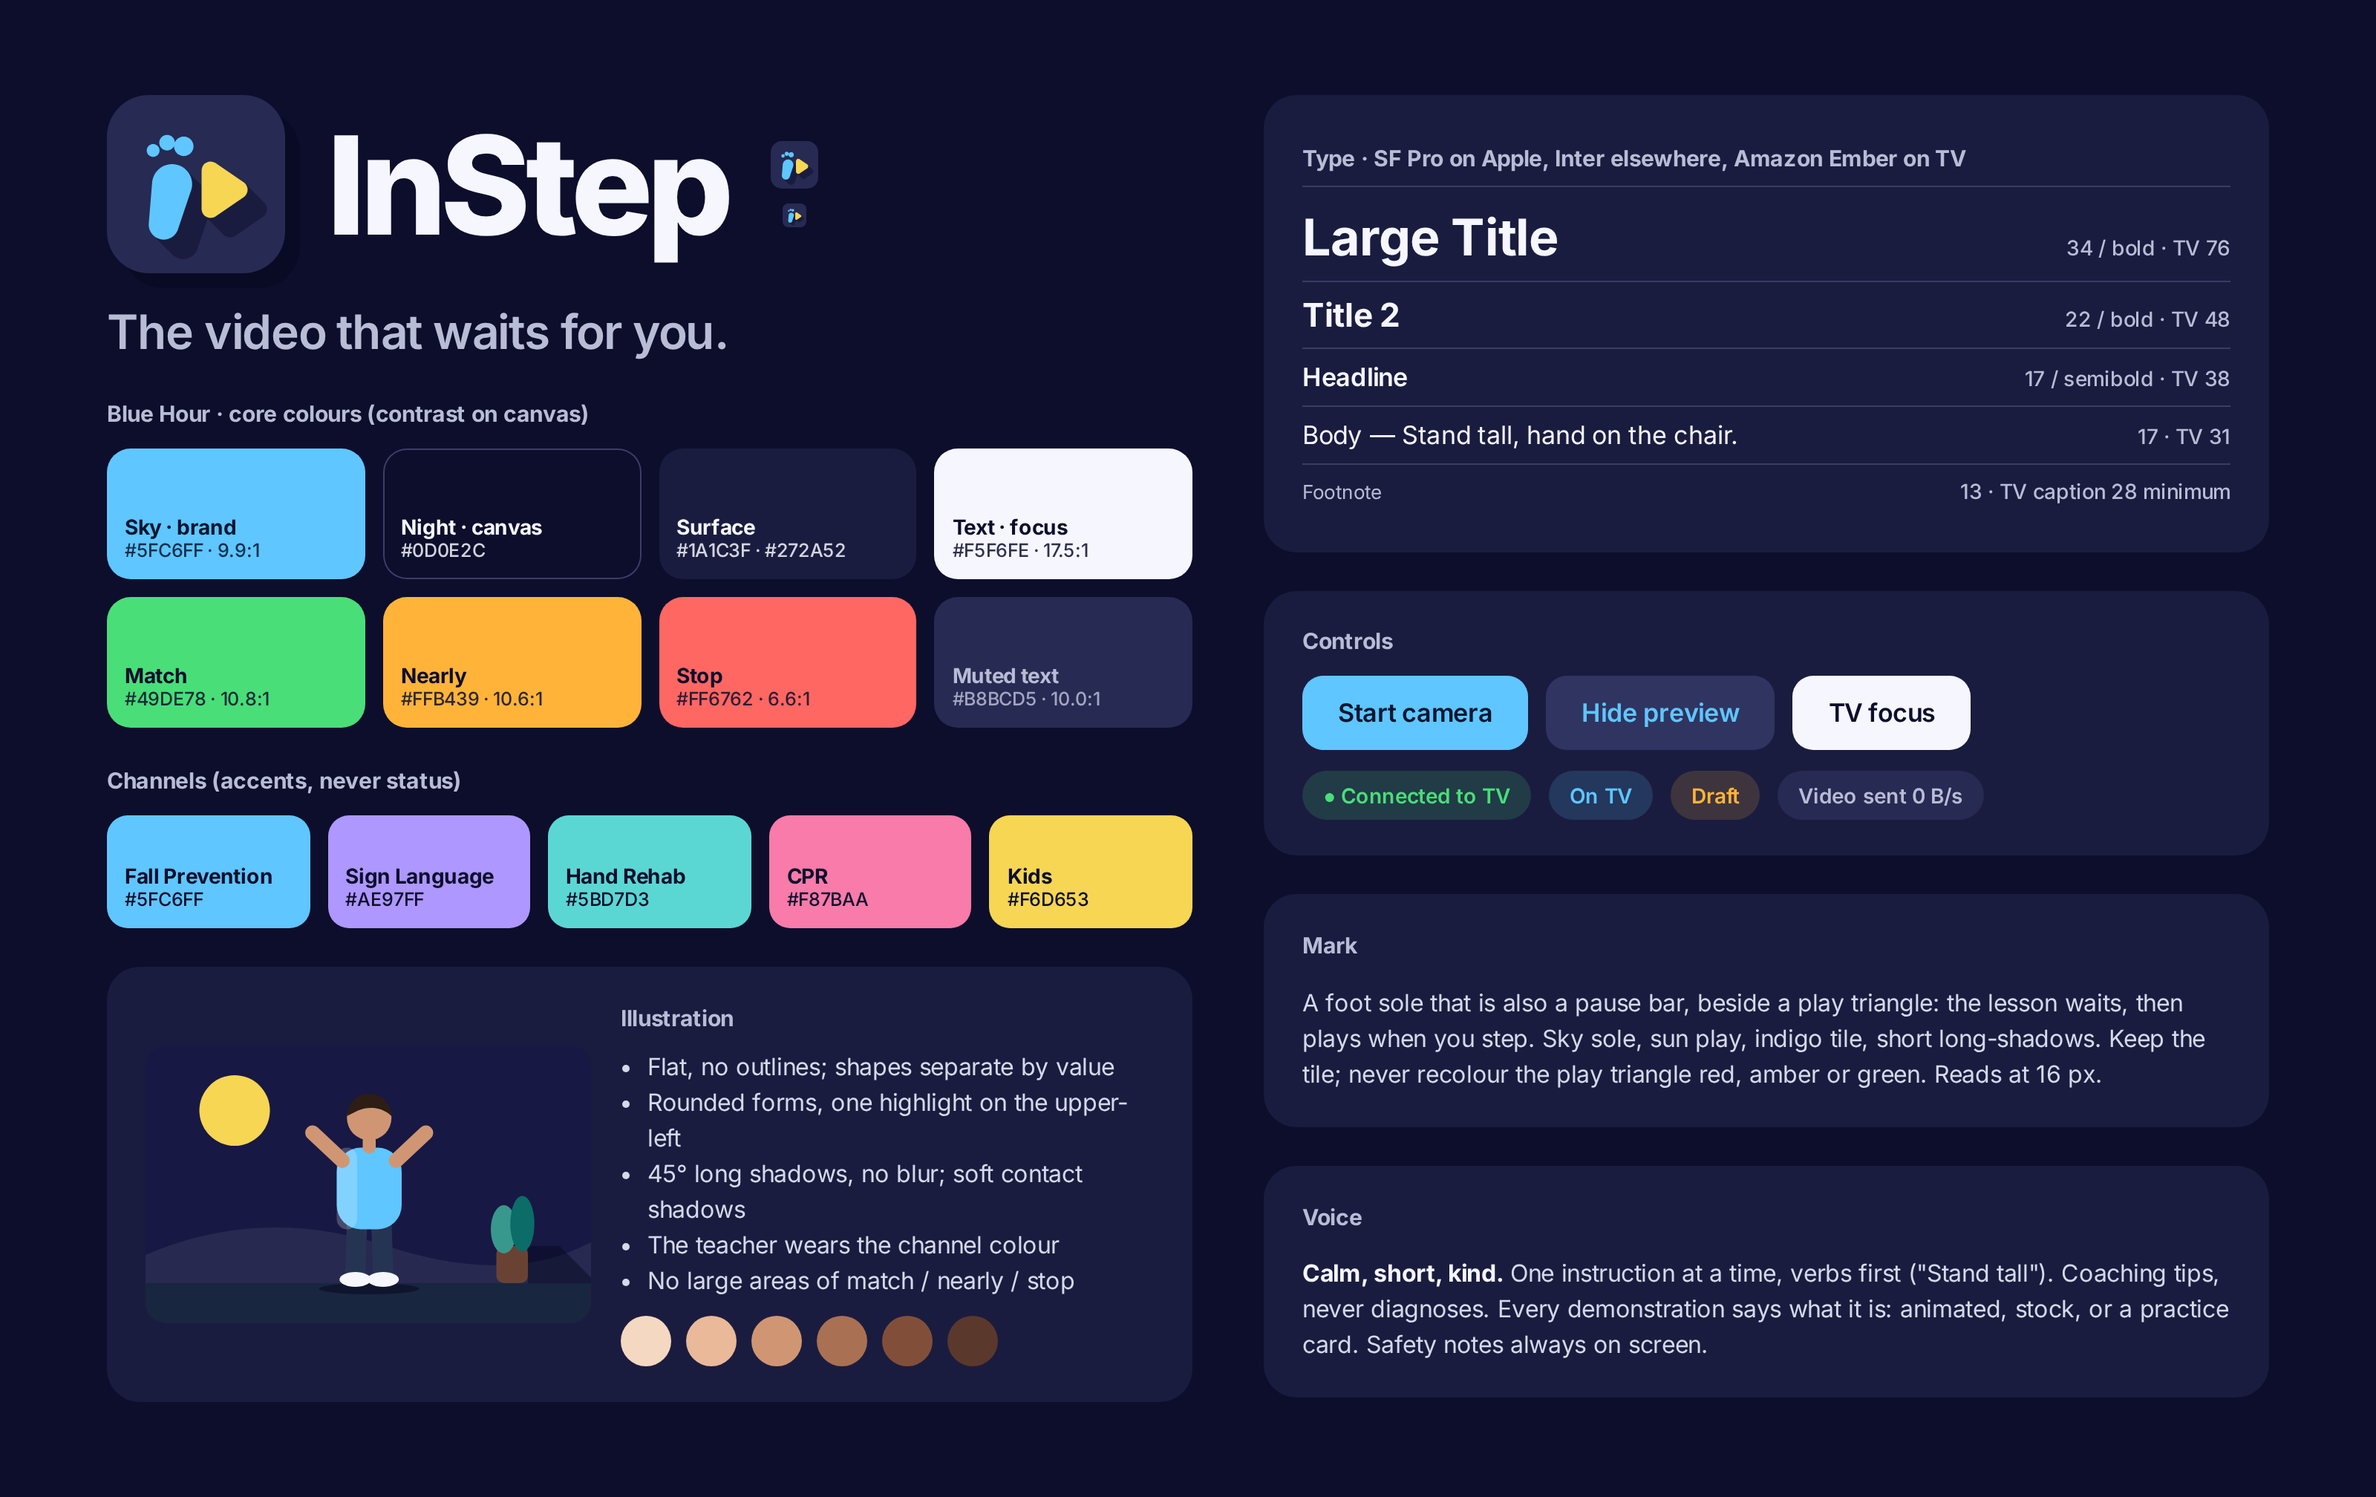
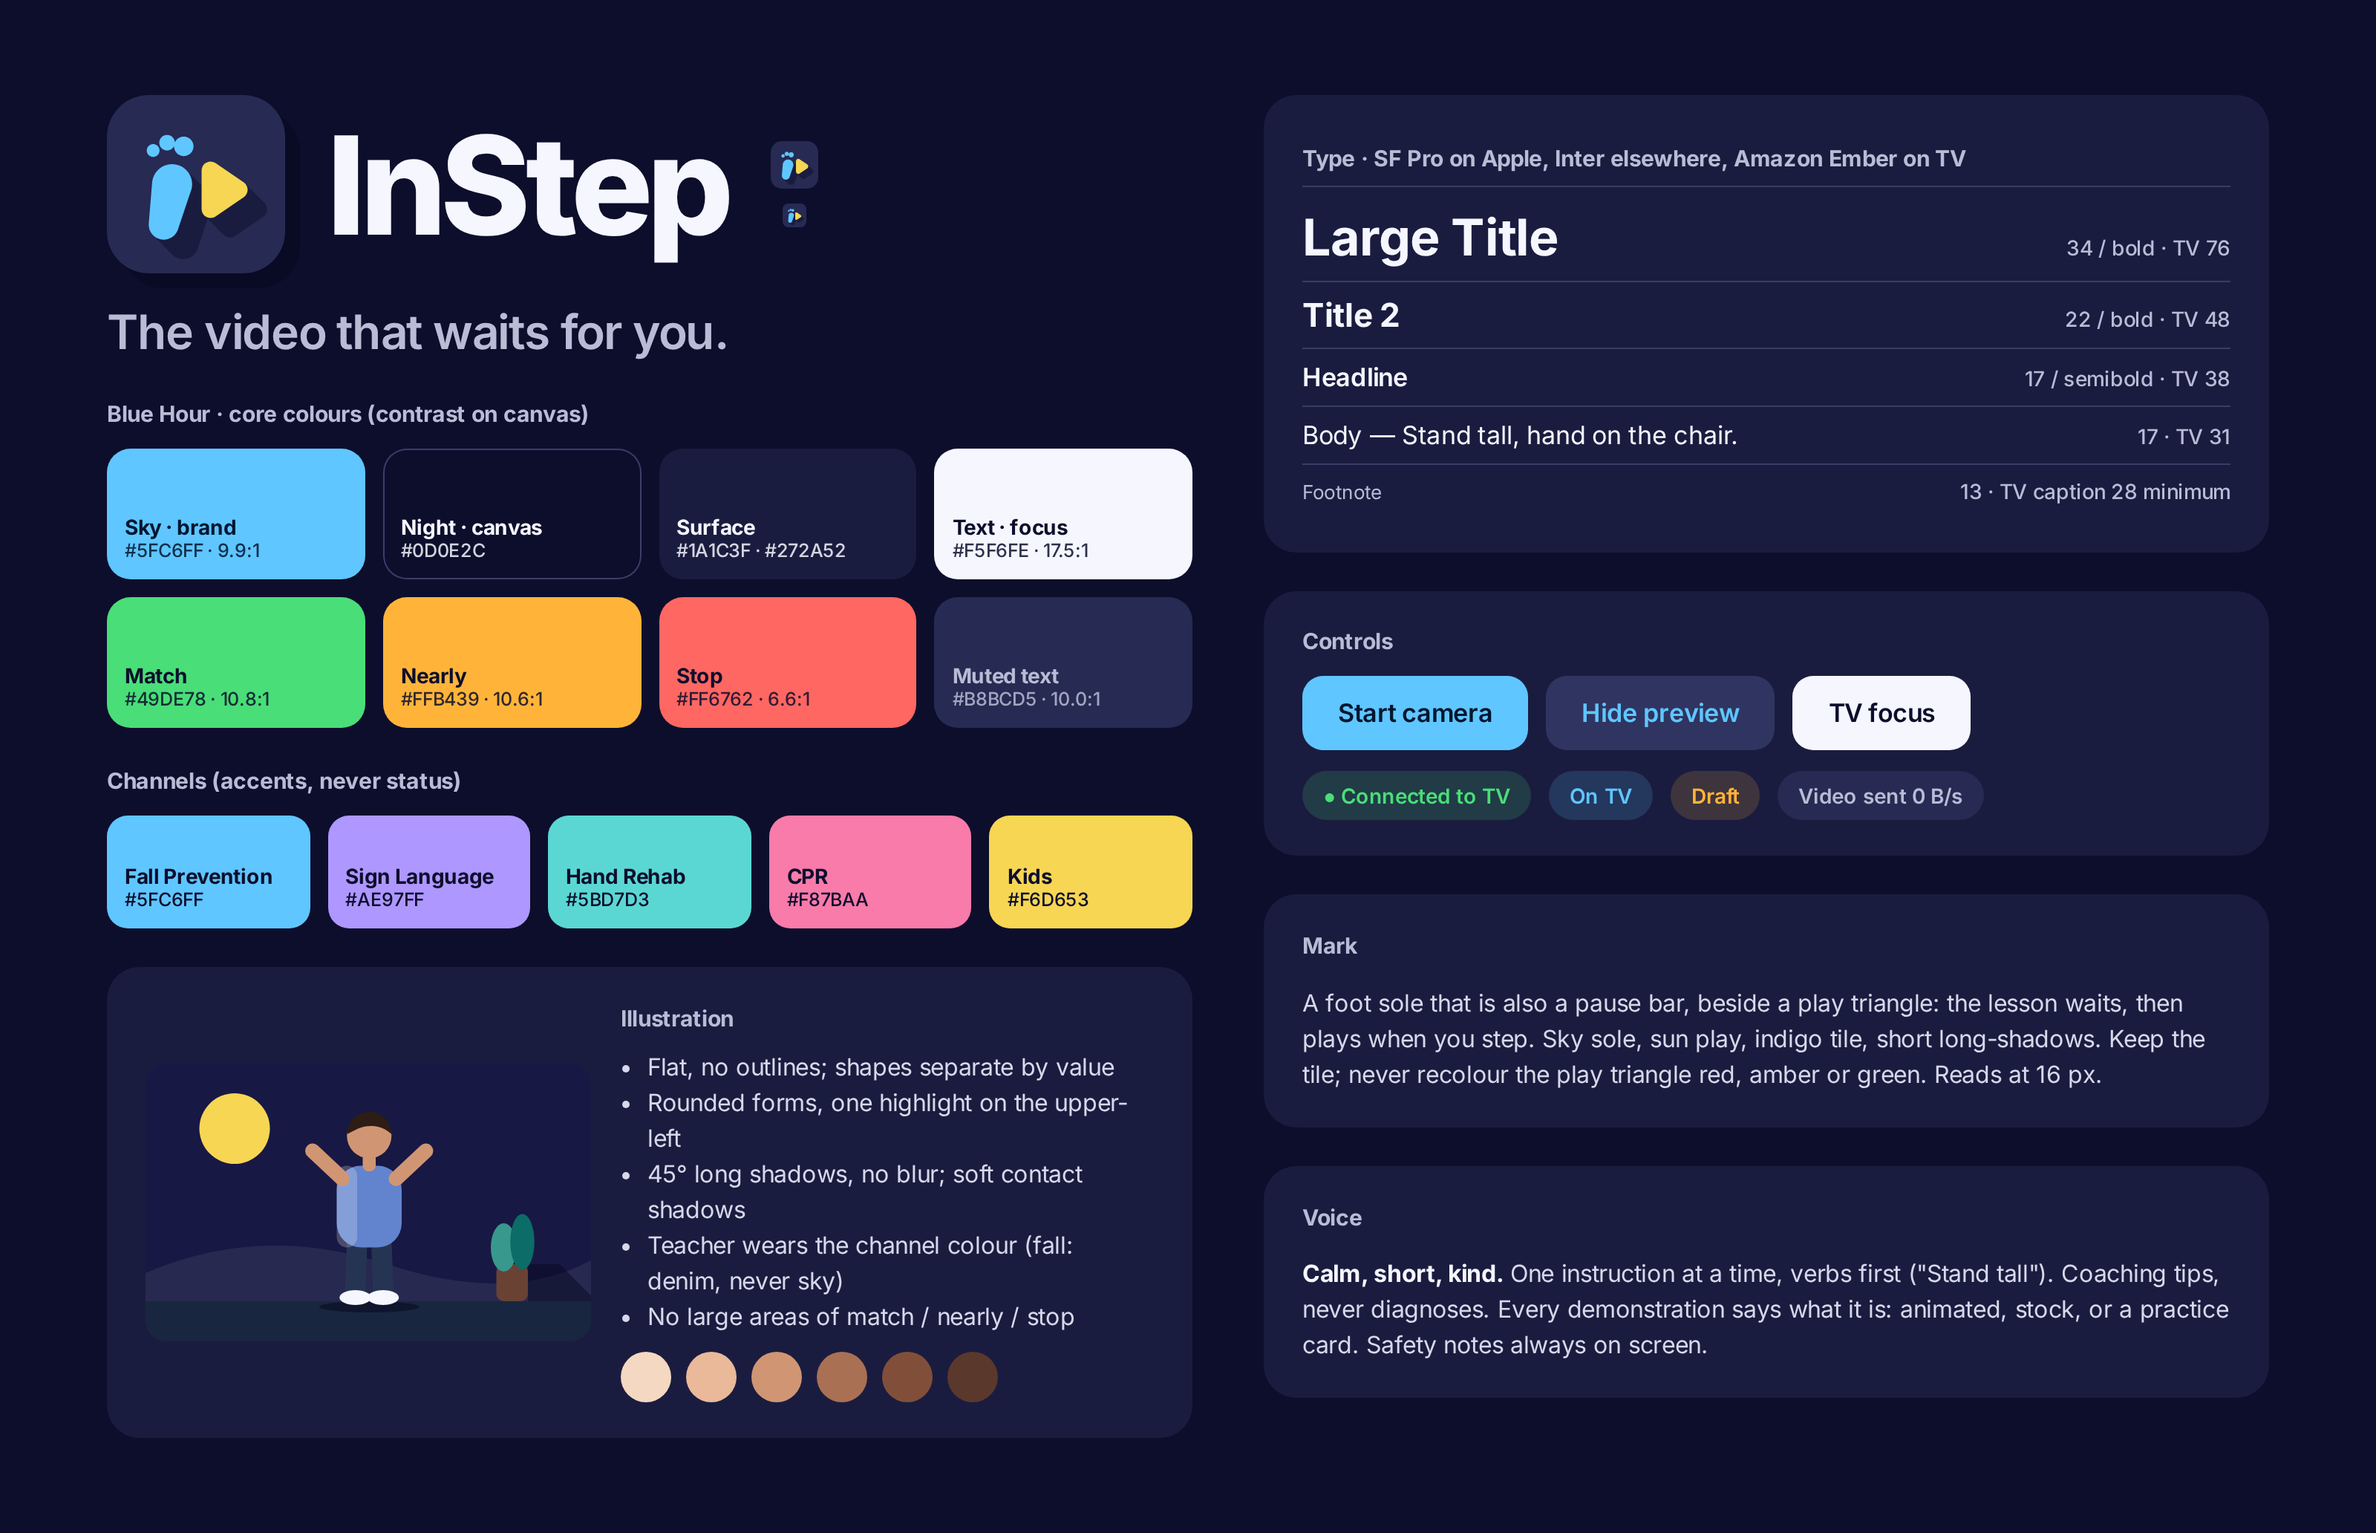
docs(brand): fall prevention teacher wears denim, not the brand sky
The TV draws the dashed ghost skeleton in the brand sky, which is also the
Fall Prevention channel colour; a sky shirt would hide it in the hero
lesson. Rule text only (palette.json rules, docs/09, brand sheet sample);
no hex value changed.

diff --git a/docs/brand/brand-board.html b/docs/brand/brand-board.html
@@ -232,7 +232,7 @@
           <ellipse cx="241" cy="262" rx="54" ry="6" fill="rgba(5,4,27,0.5)" />
           <line x1="228" y1="188" x2="226" y2="244" stroke="#263454" stroke-width="22" stroke-linecap="round" />
           <line x1="254" y1="188" x2="256" y2="244" stroke="#263454" stroke-width="22" stroke-linecap="round" />
-          <rect x="206" y="110" width="70" height="88" rx="26" fill="#5FC6FF" />
+          <rect x="206" y="110" width="70" height="88" rx="26" fill="#6284CE" />
           <rect x="206" y="110" width="22" height="88" rx="11" fill="rgba(255,255,255,0.22)" />
           <line x1="212" y1="124" x2="180" y2="94" stroke="#D09673" stroke-width="16" stroke-linecap="round" />
           <line x1="270" y1="124" x2="302" y2="94" stroke="#D09673" stroke-width="16" stroke-linecap="round" />
@@ -248,7 +248,7 @@
             <li>Flat, no outlines; shapes separate by value</li>
             <li>Rounded forms, one highlight on the upper-left</li>
             <li>45° long shadows, no blur; soft contact shadows</li>
-            <li>The teacher wears the channel colour</li>
+            <li>Teacher wears the channel colour (fall: denim, never sky)</li>
             <li>No large areas of match / nearly / stop</li>
           </ul>
           <div class="skin" style="margin-top: 12px">

diff --git a/docs/09-design-system.md b/docs/09-design-system.md
@@ -125,7 +125,9 @@ Colours from `docs/brand/palette.json` (`illustration`, `skin`, `accents`); the 
 4. **The canvas is night indigo** (`skyTop` → `skyBottom` walls, `floor`, `wall`), with the sun or a lamp as the
    warm accent.
 5. **People:** skin from `skin[]` (vary it across lessons), hair from `illustration.hair`; the teaching figure
-   wears the lesson's channel colour so the poster, card and video agree. Faces simple and friendly; no medical
+   wears the lesson's channel colour so the poster, card and video agree, except Fall Prevention: its channel
+   colour is the brand sky, which the TV uses for the dashed ghost skeleton, so that teacher wears denim
+   (`illustration.clothes[5]`, `#6284CE`) with sky only as trim. No large sky areas behind any figure. Faces simple and friendly; no medical
    props unless the lesson needs them (CPR manikin).
 6. **Keep feedback colours free.** No large areas of `ok` green, `near` amber or `far` red, and no green plants
    next to the teaching figure (plants use the teal `illustration.leaf`), so the TV's skeleton feedback stays
